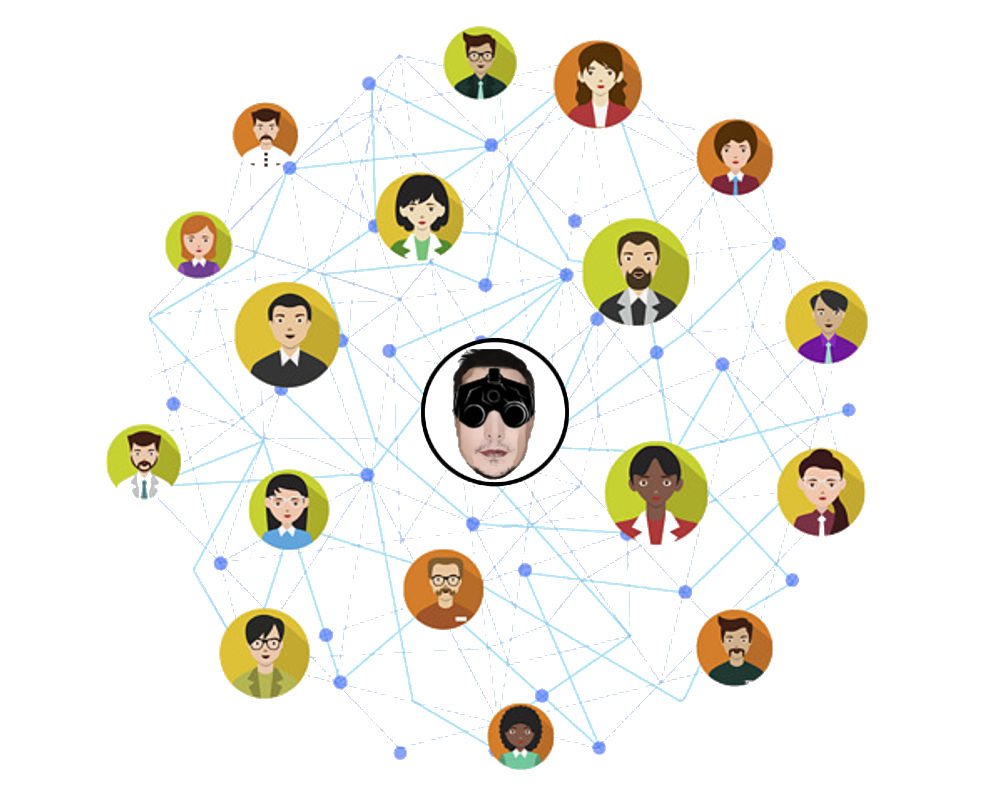
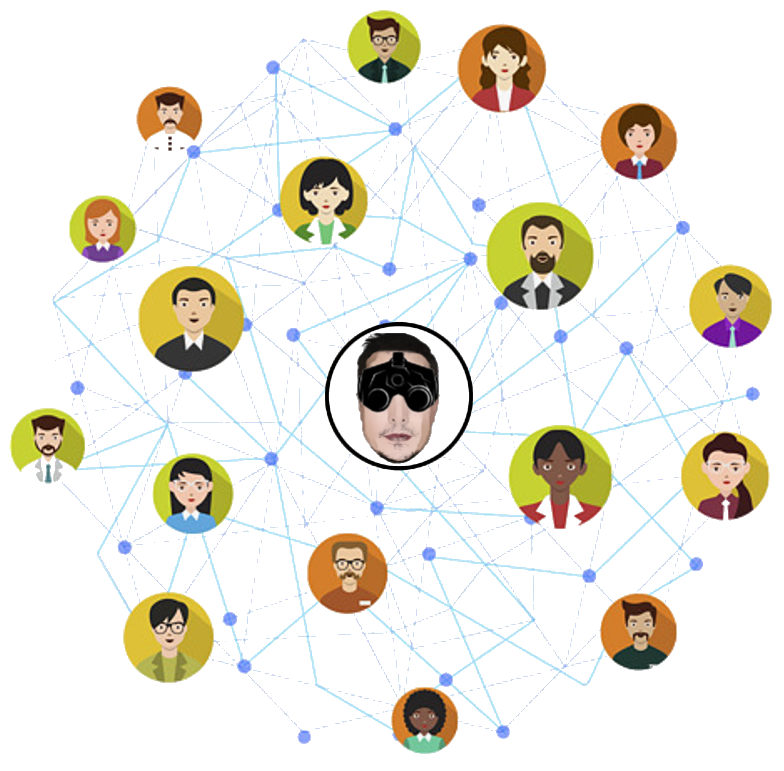
cropped community image, changed width of that image

diff --git a/css/style.css b/css/style.css
@@ -70,7 +70,7 @@ h2.mv-heading2-large
 }
 
 .mv-icon-large-1{
-    width:500px;
+    width:440px;
     height:400px;
 }
 
